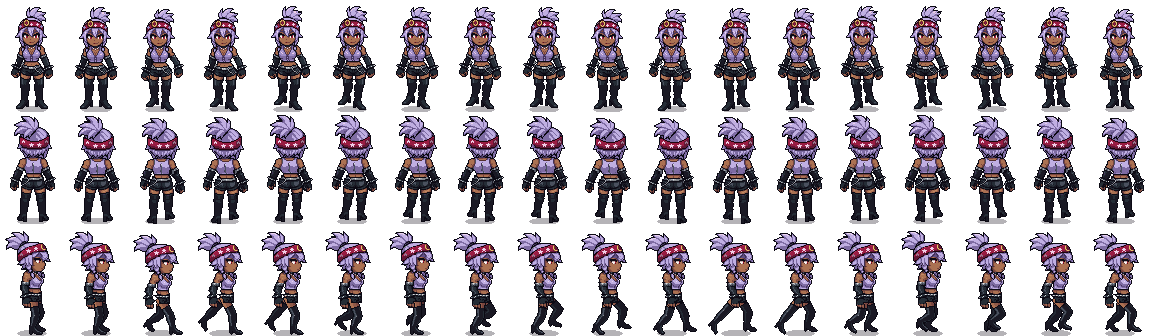
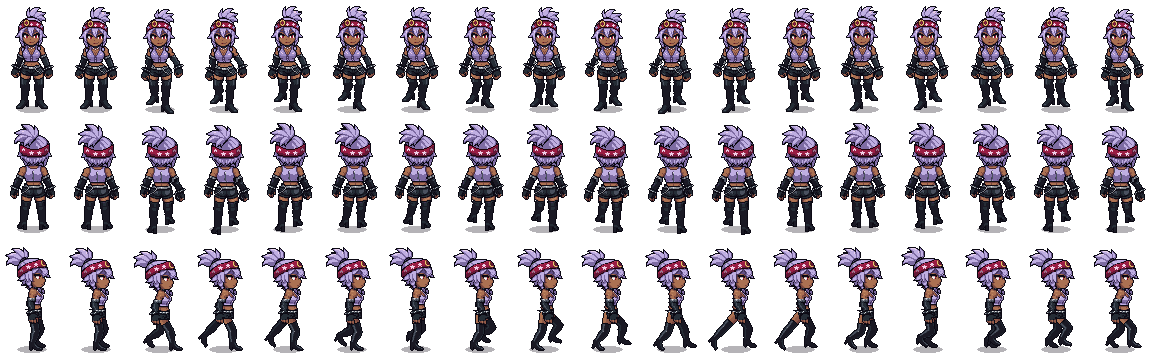
Lei: la spalla sotto il collo di lato, passi completi davanti e dietro
Da Bru: «le spalle sono troppo indietro nella vista di lato» e «nel
camminare avanti e indietro il movimento delle gambe non e' affatto
completo, non fa passi completi».

- di lato il braccio va avanti di 6 pixel: pendeva dietro la schiena, ora
  la spalla sta sotto il collo e il braccio scende lungo il fianco
- davanti e dietro il piede va avanti e indietro di 5 righe (prima 2), in
  aria si alza di 6 (prima 4), la coscia si accorcia di 4 col ginocchio in
  alto, le mani dondolano di 2
- il fotogramma e' alto 120 (sotto i piedi lo spazio per il piede che va
  avanti); lei.json dice al gioco la riga dei piedi

Claude-Session: https://claude.ai/code/session_01AE7uzpDH1Lo1PHb29aXJxZ

diff --git a/strumenti/protagonisti/passo.py b/strumenti/protagonisti/passo.py
@@ -25,13 +25,19 @@
 #     spinta, in aria il piede passa piegato. Il corpo scende quanto serve
 #     perche' la gamba arrivi a terra (al contatto), e risale. La gamba lontana
 #     e' piu' scura e un poco piu' in la' (lei e' vista un poco dall'alto).
+# Poi Bru: «le spalle sono troppo indietro nella vista di lato» (il braccio va
+# avanti di LATO_BRACCIO_AVANTI: la spalla sotto il collo) e «nel camminare
+# avanti e indietro il movimento delle gambe non e' affatto completo, non fa
+# passi completi»: davanti e dietro il piede va avanti e indietro di 5 righe
+# (non 2), si alza di 6 (non 4), il ginocchio si piega di piu', le mani
+# dondolano di 2.
 import math
 
 import corpo
 import gambe
 
-W, H = 64, 112            # un fotogramma
-TERRA = 109               # l'origine del nodo, tre righe sopra il fondo: i piedi stanno li'
+W, H = 64, 120            # un fotogramma (sotto i piedi lo spazio per il piede che va avanti)
+TERRA = 109               # l'origine del nodo: i piedi stanno li' (lei.json lo dice al gioco)
 
 N = 16                    # i tempi del passo: due passi da otto
 CICLO = 60.0              # la strada di un ciclo (due passi), in pixel del mondo
@@ -269,9 +275,9 @@ def dietro():
                  dx=10, dy=4)
 
 
-FONDO = 2.0          # davanti e dietro: il piede avanti e dietro, in righe (avanti e' giu' davanti, su dietro)
-ALZA = 4.0           # quanto si alza il piede in aria
-CODA_G = 2.5         # quanto si accorcia la coscia col ginocchio in alto
+FONDO = 5.0          # davanti e dietro: il piede avanti e dietro, in righe (avanti e' giu' davanti, su dietro)
+ALZA = 6.0           # quanto si alza il piede in aria
+CODA_G = 4.0         # quanto si accorcia la coscia col ginocchio in alto
 DENTRO = 2           # i piedi verso la linea di mezzo, camminando
 FIANCHI = 2.0        # di quanto vanno di lato i fianchi
 SPALLE = 0.7         # e le spalle (poco)
@@ -292,15 +298,15 @@ def tempo_davanti_dietro(t, verso):
         gambe_[nome] = dict(
             anca=(fianchi, giu),
             piede=(piede_dx, int(round(FONDO * avanti * verso - ALZA * alzata))),
-            ginocchio=(fianchi + piede_dx) / 2.0 + 1.5 * alzata * centro,
+            ginocchio=(fianchi + piede_dx) / 2.0 + 2.0 * alzata * centro,
             coscia=int(round(CODA_G * alzata)),
             dietro=-avanti * verso)
     # le braccia al contrario delle gambe: la mano a sinistra va avanti con la
     # gamba a destra; avanti la mano scende (davanti) o sale (dietro) e va verso
     # il centro
     a = math.cos(2 * math.pi * phi)
-    braccia = {'bs': (int(round(1.5 * a * verso)), int(round(1.5 * a))),
-               'bd': (int(round(-1.5 * a * verso)), int(round(1.5 * a)))}
+    braccia = {'bs': (int(round(2.0 * a * verso)), int(round(2.0 * a))),
+               'bd': (int(round(-2.0 * a * verso)), int(round(2.0 * a)))}
     return dict(giu=giu, fianchi=fianchi, spalle=spalle, coda=(coda_dx, coda_giu), gambe=gambe_, braccia=braccia)
 
 
@@ -317,6 +323,10 @@ LATO_BRACCIO = righe_da([(41, 41, 19, 22), (42, 44, 18, 24), (45, 45, 17, 25), (
                          (55, 61, 15, 23), (62, 62, 17, 19), (63, 63, 17, 22), (64, 64, 16, 24),
                          (65, 66, 15, 24), (67, 76, 17, 25)])
 LATO_DX, LATO_DY = 5, 7
+# il braccio va avanti di tanto rispetto al disegno: nel giro di Bru pende
+# dietro la schiena, e la spalla sta troppo indietro (Bru: «le spalle sono
+# troppo indietro»): cosi' la spalla sta sotto il collo, il braccio lungo il fianco
+LATO_BRACCIO_AVANTI = 6
 ANCA_V = (27.5 + LATO_DX, 66.5 + LATO_DY)       # l'anca della gamba vicina
 ANCA_L = (29.5 + LATO_DX, 64.5 + LATO_DY)       # e della lontana (piu' in la' e piu' avanti)
 TERRA_V = 103 + LATO_DY                         # la suola vicina
@@ -385,7 +395,7 @@ class Lato:
             k = y - self.spalla
             s = 0 if k <= 0 else int(round(mano * min(1.0, k / n)))
             su = -1 if abs(mano) >= 4 and y >= self.polso else 0
-            out[(x + s + LATO_DX, y + giu + respiro + su + LATO_DY)] = ch
+            out[(x + s + LATO_BRACCIO_AVANTI + LATO_DX, y + giu + respiro + su + LATO_DY)] = ch
         return chiudi(out)
 
 

diff --git a/strumenti/protagonisti/lei.py b/strumenti/protagonisti/lei.py
@@ -5,10 +5,10 @@
 #
 # Il disegno e' in lei/*.txt (corpo.py), il passo in passo.py e gambe.py.
 # Il foglio: 18 colonne (fermo, il respiro, i sedici tempi del passo) x 3 righe
-# (giu', su, destra; la sinistra e' la destra allo specchio); fotogrammi 64x112
-# (lei e' alta 100 pixel, come nei disegni di Bru), i piedi al centro, tre
-# righe sopra il fondo (dove li mette il gioco), con l'ombra ovale per terra.
-# Accanto, lei.json: le colonne, la strada per tempo e la velocita' per il gioco.
+# (giu', su, destra; la sinistra e' la destra allo specchio); fotogrammi 64x120
+# (lei e' alta 100 pixel, come nei disegni di Bru), i piedi al centro sulla
+# riga TERRA, con l'ombra ovale per terra. Accanto, lei.json: le colonne, la
+# strada per tempo, la velocita' e la riga dei piedi, per il gioco.
 import json
 import os
 import sys
@@ -64,6 +64,7 @@ if __name__ == '__main__':
     # accanto, le misure che il gioco deve sapere (prove/LivelloProva.gd e
     # MondoProva.gd, misure_del_foglio): le colonne, la strada per tempo, la velocita'
     with open(os.path.join(cartella, 'lei.json'), 'w') as f:
-        json.dump({'colonne': 2 + passo.N, 'passo_px': passo.PASSO_PX, 'velocita': passo.VELOCITA}, f)
+        json.dump({'colonne': 2 + passo.N, 'passo_px': passo.PASSO_PX, 'velocita': passo.VELOCITA,
+                   'terra': passo.TERRA}, f)
         f.write('\n')
     print('scritto lei', w, h)
